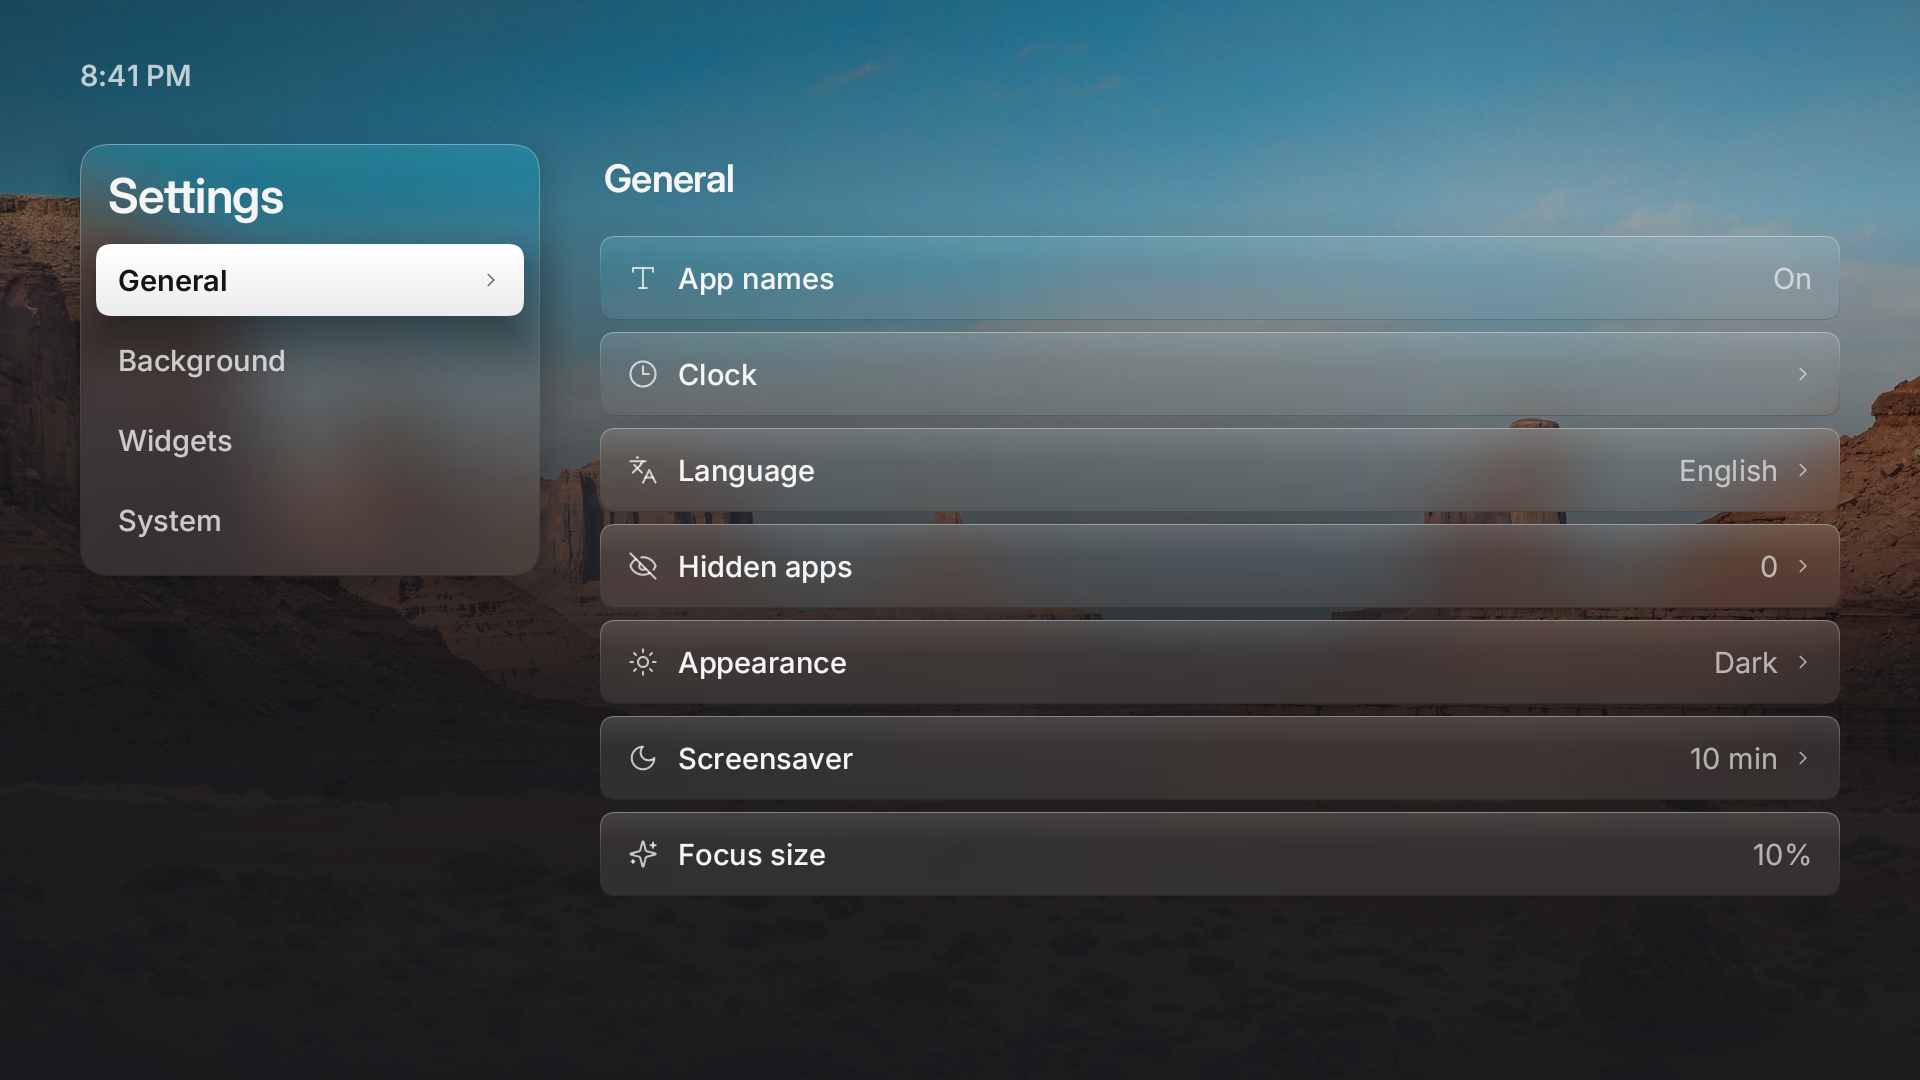
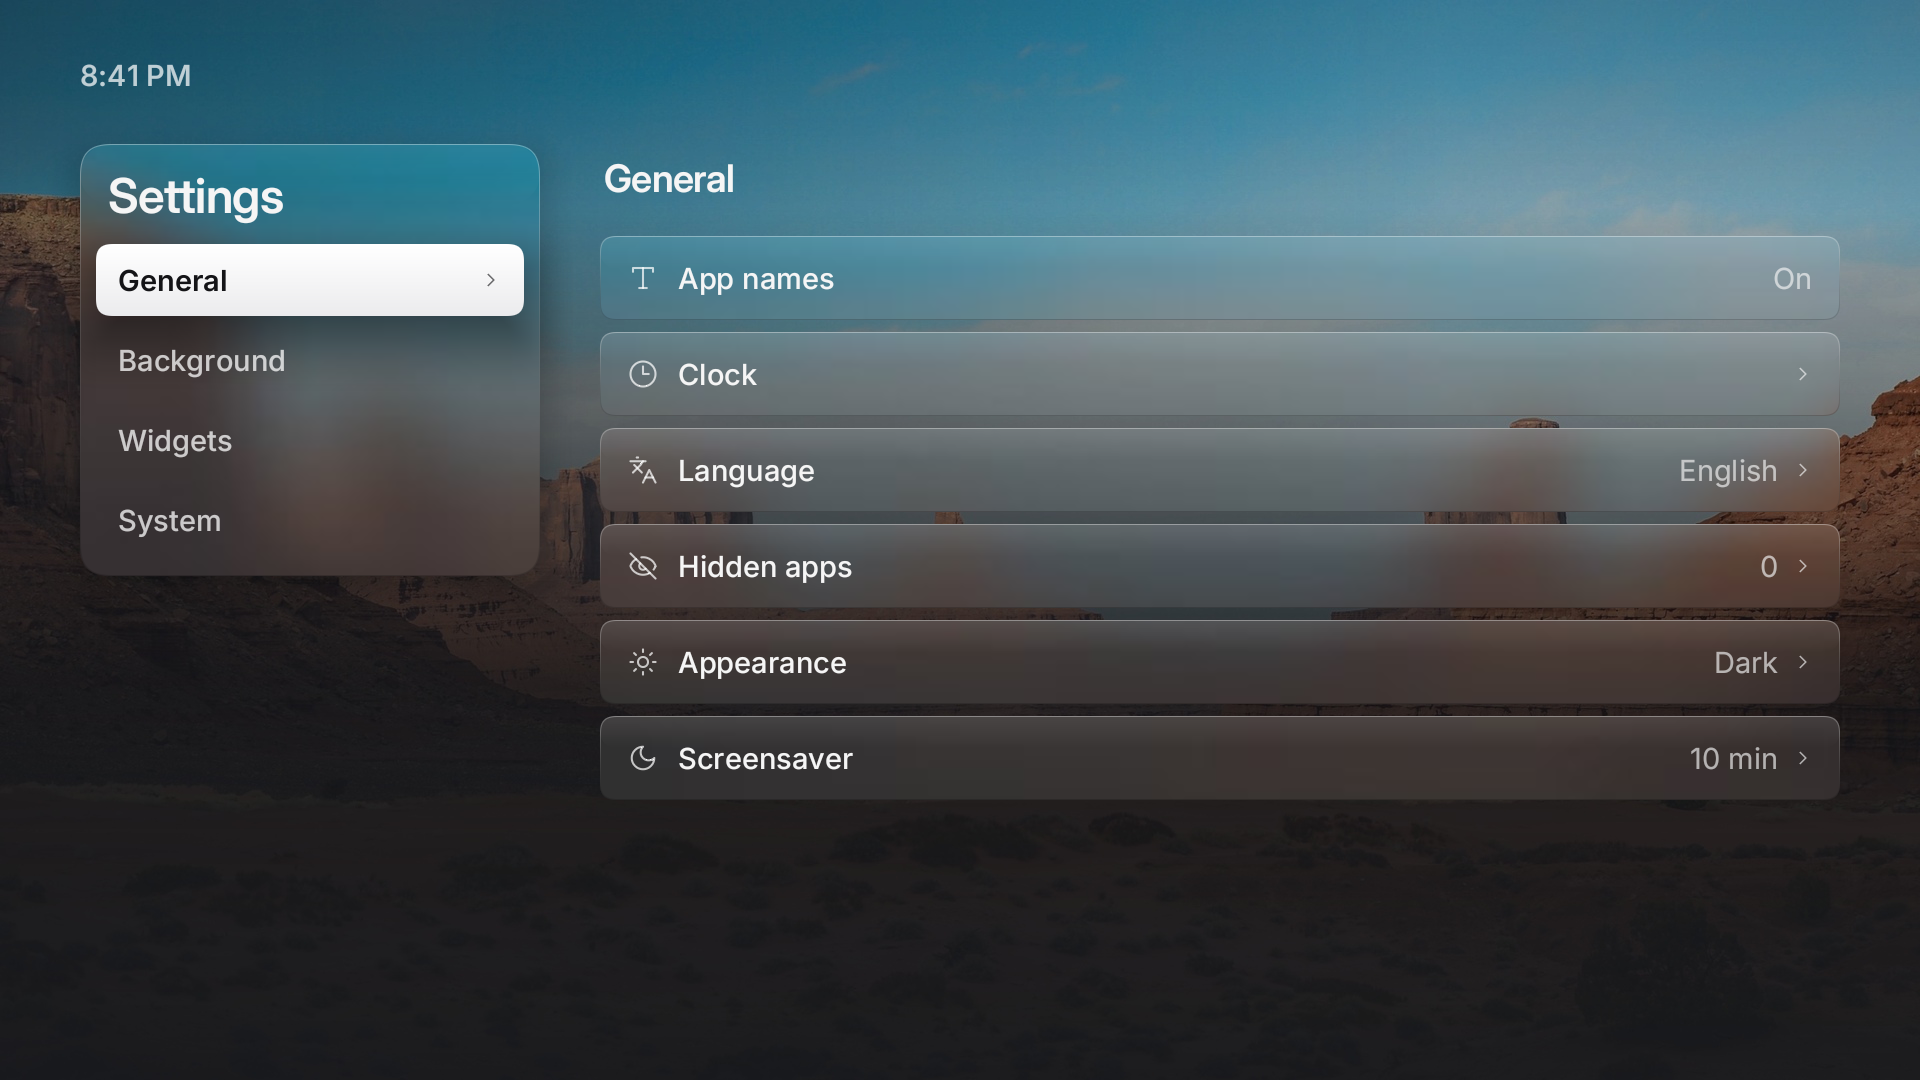
feat(ui): settle the focused card at a fixed 10% step
The user chose 10% on the TV. The temporary Focus size row and the
focus_grow preference are removed; preference files from the focus trials
(focus_style, focus_grow) still load. The single rimless style stays: 10%
larger, about 6% brighter, with a soft shadow.

Changed region(s): [[0.3125, 0.7333, 0.9688, 0.825]]

diff --git a/src/tests.rs b/src/tests.rs
@@ -4052,14 +4052,13 @@ fn startup_diagnostics_are_written_as_json_next_to_the_preferences() {
 
 #[test]
 fn focused_card_pops_in_place_and_focus_moves_instantly() {
-    use crate::model::FocusGrow;
     use crate::renderer::Draw;
     use crate::state::Rect;
     let mut state = ready();
     state.open(Page::Home);
     state.sync_motion();
-    // One rimless style: 10% larger by default, a soft shadow and about 6% brighter.
-    assert_eq!(state.preferences.focus_grow, FocusGrow(10));
+    // One rimless style: 10% larger, a soft shadow and about 6% brighter.
+    assert_eq!(view::FOCUS_GROW, 0.10);
     let netflix = Target::App("netflix".into());
     assert_eq!(state.focus, netflix);
     let card = |state: &State, target: &Target| {
@@ -4070,7 +4069,7 @@ fn focused_card_pops_in_place_and_focus_moves_instantly() {
             .rect
     };
     let grown = |rect: Rect| {
-        let share = FocusGrow::default().share();
+        let share = view::FOCUS_GROW;
         let (dx, dy) = (rect.w * share / 2., rect.h * share / 2.);
         Rect::new(rect.x - dx, rect.y - dy, rect.w + 2. * dx, rect.h + 2. * dy)
     };
@@ -4666,12 +4665,11 @@ fn removed_settings_still_load_from_old_preference_files_and_their_rows_are_gone
             _ => None,
         })
         .collect();
-    assert_eq!(rows, [0, 1, 4, 11, 14, 12, 16]);
+    assert_eq!(rows, [0, 1, 4, 11, 14, 12]);
 }
 
 #[test]
-fn every_focus_size_keeps_the_card_and_caption_inside_the_margin_and_clear_of_neighbours() {
-    use crate::model::FocusGrow;
+fn the_focused_card_and_caption_stay_inside_the_margin_and_clear_of_neighbours() {
     use crate::renderer::Draw;
     use crate::state::Rect;
     let overlaps = |a: Rect, b: Rect| {
@@ -4680,10 +4678,10 @@ fn every_focus_size_keeps_the_card_and_caption_inside_the_margin_and_clear_of_ne
             && a.y < b.y + b.h - 0.01
             && b.y < a.y + a.h - 0.01
     };
-    for level in FocusGrow::LEVELS {
+    let level = 10;
+    {
         for light in [false, true] {
             let mut state = ready();
-            state.preferences.focus_grow = FocusGrow(level);
             if light {
                 state.preferences.appearance = crate::model::Appearance::Light;
             }
@@ -4696,7 +4694,7 @@ fn every_focus_size_keeps_the_card_and_caption_inside_the_margin_and_clear_of_ne
                 .take(3 * crate::state::APPS_COLUMNS)
                 .collect();
             assert_eq!(cards.len(), 18);
-            let share = FocusGrow(level).share();
+            let share = view::FOCUS_GROW;
             for card in &cards {
                 state.focus = card.target.clone();
                 state.sync_motion();
@@ -4769,54 +4767,36 @@ fn every_focus_size_keeps_the_card_and_caption_inside_the_margin_and_clear_of_ne
             }
         }
     }
-    // At 14% the 40 px gap between neighbours keeps a clear space on each side.
+    // At 10% the 40 px gap between neighbours keeps 27 px clear.
     let gap = view::CARD_PITCH - view::CARD_WIDTH;
-    assert!(gap - view::CARD_WIDTH * 0.14 / 2. > 20.);
-    // The shadow grows with the size: wider, lower and deeper at each level.
-    let shadows: Vec<_> = FocusGrow::LEVELS
-        .iter()
-        .map(|level| view::focus_shadow(FocusGrow(*level)))
-        .collect();
-    for pair in shadows.windows(2) {
-        assert!(pair[1].0 > pair[0].0 && pair[1].1 > pair[0].1 && pair[1].2 > pair[0].2);
-    }
+    assert!(gap - view::CARD_WIDTH * view::FOCUS_GROW / 2. > 26.);
 }
 
 #[test]
-fn the_temporary_focus_size_row_cycles_five_levels_and_old_preferences_still_load() {
-    use crate::model::FocusGrow;
+fn preference_files_from_the_focus_trials_still_load() {
+    // focus_style (the S1–S6 trial) and focus_grow (the size trial) are no longer settings.
+    for value in [
+        json!({"focus_style": "s3"}),
+        json!({"focus_grow": 14}),
+        json!({"focus_style": "c", "focus_grow": "x", "show_app_names": false}),
+    ] {
+        let loaded: Preferences = serde_json::from_value(value.clone()).unwrap();
+        let saved = serde_json::to_value(&loaded).unwrap();
+        assert!(
+            saved.get("focus_style").is_none() && saved.get("focus_grow").is_none(),
+            "{value}"
+        );
+    }
+    let loaded: Preferences =
+        serde_json::from_value(json!({"focus_grow": 6, "show_app_names": false})).unwrap();
+    assert!(!loaded.show_app_names, "the other settings are kept");
+    // The General list has no focus row any more.
     let mut state = ready();
     state.open(Page::Settings);
     state.section = 0;
-    state.focus = Target::Setting(16);
-    let mut seen = vec![state.preferences.focus_grow.0];
-    for _ in 0..5 {
-        assert_eq!(state.activate(), vec![Effect::Save]);
-        seen.push(state.preferences.focus_grow.0);
-    }
-    assert_eq!(seen, [10, 12, 14, 6, 8, 10]);
-    state.preferences.focus_grow = FocusGrow(14);
-    let frame = scene(&state);
     assert!(
-        frame
-            .draw
+        !controls(&state)
             .iter()
-            .any(|d| matches!(d, crate::renderer::Draw::Text(t, ..) if t == "14%"))
+            .any(|c| c.target == Target::Setting(16))
     );
-    // Stored as "focus_grow"; other values load as 10%, and the earlier focus_style key
-    // (from the style trial) is ignored without error.
-    let saved = serde_json::to_value(&state.preferences).unwrap();
-    assert_eq!(saved["focus_grow"], 14);
-    assert!(saved.get("focus_style").is_none());
-    let loaded: Preferences =
-        serde_json::from_value(json!({"focus_grow": 6, "focus_style": "s3"})).unwrap();
-    assert_eq!(loaded.focus_grow, FocusGrow(6));
-    for value in [json!(7), json!("10"), json!(-1), json!(null), json!(1e20)] {
-        let loaded: Preferences = serde_json::from_value(json!({"focus_grow": value})).unwrap();
-        assert_eq!(loaded.focus_grow, FocusGrow(10), "{value}");
-    }
-    for style in ["s1", "s6", "c"] {
-        let loaded: Preferences = serde_json::from_value(json!({"focus_style": style})).unwrap();
-        assert_eq!(loaded.focus_grow, FocusGrow(10));
-    }
 }

diff --git a/src/view.rs b/src/view.rs
@@ -1,7 +1,7 @@
 //! Screen geometry and styling mirror the web UI's 1920×1080 / 16px-rem layout.
 use crate::{
     i18n::Language,
-    model::{App, BACKGROUNDS, FocusGrow, Input, InputMode},
+    model::{App, BACKGROUNDS, Input, InputMode},
     renderer::{Color, Draw, TextStyle, WHITE},
     state::{
         APPS_COLUMNS, Control, KEYS, Overlay, Page, Rect, SYSTEM_SECTION, State, Subpage, Target,
@@ -239,8 +239,6 @@ pub struct Scene {
     raised: Vec<Draw>,
     /// Settings and overlays: focused controls appear at once in place (no lift), as cards do.
     static_focus: bool,
-    /// How much larger focused app and wallpaper cards are (Settings › General › Focus size).
-    focus: FocusGrow,
 }
 
 /// Grows `rect` around its centre by `share` of its size.
@@ -276,7 +274,6 @@ impl Scene {
             backdrop: None,
             raised: Vec::new(),
             static_focus: false,
-            focus: FocusGrow::default(),
         }
     }
     /// How much a focused control grows: `lift`, or nothing where focus is static (Settings).
@@ -678,7 +675,6 @@ pub fn scene(state: &State, assets: &Assets, now: OffsetDateTime) -> Scene {
         return screensaver(state, assets, now, seed, step);
     }
     let mut out = Scene::new();
-    out.focus = state.preferences.focus_grow;
     out.static_focus =
         state.page == Page::Settings || state.overlay.is_some() || state.recents_open();
     let shown = state.preferences.background.clone();
@@ -1172,30 +1168,29 @@ fn within_margin(card: Rect, grown: Rect) -> Rect {
 }
 
 /// The focused card's drawn rectangle: its static size step, kept inside the screen margin.
-fn focused_rect(focus: FocusGrow, rect: Rect) -> Rect {
-    within_margin(rect, grow(rect, focus.share()))
+fn focused_rect(rect: Rect) -> Rect {
+    within_margin(rect, grow(rect, FOCUS_GROW))
 }
 
 /// A card's shadow and drawn rectangle for its focus `level`: the small resting shadow, or
-/// the focus size step with a soft shadow that grows with it, so a larger step also looks more
-/// lifted. The hit region is never changed; nothing animates.
+/// the 10% size step with a soft, wide shadow that makes it look lifted. The hit region is
+/// never changed; nothing animates.
 fn focus_card(out: &mut Scene, rect: Rect, radius: f32, level: f32) -> Rect {
     if level <= 0. {
         out.resting_shadow(rect, radius);
         return rect;
     }
-    let drawn = focused_rect(out.focus, rect);
-    let (blur, y, alpha) = focus_shadow(out.focus);
+    let drawn = focused_rect(rect);
+    let (blur, y, alpha) = FOCUS_SHADOW;
     out.shadow(drawn, radius, blur, y, alpha);
     drawn
 }
 
-/// Blur, downward offset and opacity of the focused card's shadow: from soft and close at a
-/// 6% step to wide, low and deeper at 14%. Light appearance halves shadow opacity.
-pub fn focus_shadow(focus: FocusGrow) -> (f32, f32, f32) {
-    let t = ((focus.share() - 0.06) / 0.08).clamp(0., 1.);
-    (mix(32., 64., t), mix(12., 30., t), mix(0.32, 0.5, t))
-}
+/// How much larger the focused card is drawn, around its centre (chosen on the TV).
+pub const FOCUS_GROW: f32 = 0.10;
+/// Blur, downward offset and opacity of the focused card's shadow. Light appearance halves
+/// shadow opacity.
+pub const FOCUS_SHADOW: (f32, f32, f32) = (48., 21., 0.41);
 
 /// How much brighter the focused card is: a white overlay of a few percent.
 pub const FOCUS_OVERLAY: f32 = 0.06;
@@ -2753,7 +2748,6 @@ fn settings_content(out: &mut Scene, state: &State, assets: &Assets) {
         0 => {
             let hidden = state.hidden_apps().len().to_string();
             let screensaver = screensaver_label(language, state.preferences.screensaver_minutes);
-            let focus_size = format!("{}%", state.preferences.focus_grow.0);
             for (position, (index, key, icon, value, chevron)) in [
                 (
                     0,
@@ -2782,14 +2776,6 @@ fn settings_content(out: &mut Scene, state: &State, assets: &Assets) {
                     "weather-moon",
                     Some(screensaver.as_str()),
                     true,
-                ),
-                // Temporary: settling the focus size on the TV. OK cycles 6% to 14%.
-                (
-                    16,
-                    "focusGrow",
-                    "sparkles",
-                    Some(focus_size.as_str()),
-                    false,
                 ),
             ]
             .into_iter()
@@ -3581,7 +3567,7 @@ fn options(out: &mut Scene, state: &State, assets: &Assets, id: &str, anchor: Op
     };
     let panel = Rect::new(x, card.y.clamp(144., 1020. - height), width, height);
     // The selected card keeps its focused highlight and size step, in place.
-    let lifted = focused_rect(out.focus, card);
+    let lifted = focused_rect(card);
     let radius = CARD_RADIUS;
     if background {
         let path = state

diff --git a/src/model.rs b/src/model.rs
@@ -209,44 +209,6 @@ fn deserialize_appearance<'de, D: serde::Deserializer<'de>>(
     )
 }
 
-/// How much larger a focused app or wallpaper card is drawn, in percent. A temporary choice on
-/// the TV (Settings › General › Focus size); once settled, the row goes and the value stays.
-#[derive(Clone, Copy, Debug, PartialEq, Eq, Serialize)]
-#[serde(transparent)]
-pub struct FocusGrow(pub u32);
-
-impl FocusGrow {
-    pub const LEVELS: [u32; 5] = [6, 8, 10, 12, 14];
-
-    /// The size step as a share of the card (0.10 for 10%).
-    pub fn share(self) -> f32 {
-        self.0 as f32 / 100.
-    }
-
-    /// The next level; OK on the Settings row cycles through all five.
-    pub fn next(self) -> Self {
-        let index = Self::LEVELS.iter().position(|level| *level == self.0);
-        Self(Self::LEVELS[index.map_or(0, |index| (index + 1) % Self::LEVELS.len())])
-    }
-}
-
-impl Default for FocusGrow {
-    fn default() -> Self {
-        Self(10)
-    }
-}
-
-/// Values other than the five levels load as the default instead of failing the file.
-fn deserialize_focus_grow<'de, D: serde::Deserializer<'de>>(
-    deserializer: D,
-) -> Result<FocusGrow, D::Error> {
-    Ok(serde_json::Value::deserialize(deserializer)?
-        .as_u64()
-        .and_then(|value| u32::try_from(value).ok())
-        .filter(|value| FocusGrow::LEVELS.contains(value))
-        .map_or_else(FocusGrow::default, FocusGrow))
-}
-
 #[derive(Clone, Copy, Debug, Default, PartialEq, Eq, Deserialize, Serialize)]
 #[serde(rename_all = "snake_case")]
 pub enum DateFormat {
@@ -326,8 +288,6 @@ pub struct Preferences {
     pub screensaver_minutes: u32,
     #[serde(deserialize_with = "deserialize_appearance")]
     pub appearance: Appearance,
-    #[serde(deserialize_with = "deserialize_focus_grow")]
-    pub focus_grow: FocusGrow,
     /// The 24-hour choice as earlier versions saved it: written with every preference file, so
     /// only `true` is known to be deliberate. Read through `uses_24_hour`.
     pub hour_24: bool,
@@ -367,7 +327,6 @@ impl Default for Preferences {
             show_inputs: false,
             screensaver_minutes: 10,
             appearance: Appearance::Dark,
-            focus_grow: FocusGrow(10),
             hour_24: false,
             clock_24: None,
             show_seconds: false,

diff --git a/src/state.rs b/src/state.rs
@@ -2456,12 +2456,6 @@ impl State {
                         return vec![];
                     }
                     5 => return vec![Effect::Quit],
-                    // Temporary focus size choice: OK cycles 6% to 14% and applies at once.
-                    16 => {
-                        self.preferences.focus_grow = self.preferences.focus_grow.next();
-                        self.dirty = true;
-                        return vec![Effect::Save];
-                    }
                     _ => return vec![Effect::Reload],
                 }
             }

diff --git a/development.md b/development.md
@@ -469,18 +469,14 @@ Luma follows current Apple tvOS (tvOS 26/27, Liquid Glass) in look and motion, a
 - **Focus** is static on app and wallpaper cards, everywhere in Settings and in every overlay
   (the context menu, alerts, the keyboard, Recents): it changes in the
   first frame after the key, with no lift, spring, tilt or fade on the item itself. A focused
-  app or wallpaper card is drawn one static size step larger around its centre (preference
-  `focus_grow`, default 10%), about 6% brighter, with a soft shadow that grows with the step
-  (blur 32 → 64 px, offset 12 → 30 px, opacity 0.32 → 0.5 from 6% to 14%), so a larger step
-  also looks more lifted. There is no rim or outline, other cards are not dimmed, nothing
-  animates, hit regions never move, and the size does not change while a card is pressed. A
-  grown card that would cross the 64 px screen margin (the edge columns at 14%, the third row's
-  bottom edge) is shifted back inside it; at 14% a focused card still leaves more than 20 px of
-  the 40 px gap to its neighbours. Its title appears beneath it; resting cards keep the same
-  small resting shadow. Settings › General › Focus size is a **temporary** row: OK cycles 6%,
-  8%, 10%, 12% and 14% and applies at once, so the size can be settled on the TV; the row then
-  goes and the chosen value becomes the fixed size. The earlier `focus_style` key from the style
-  trial is ignored.
+  app or wallpaper card is drawn 10% larger around its centre (`view::FOCUS_GROW`, settled on
+  the TV), about 6% brighter, with a soft, wide shadow (blur 48 px, offset 21 px, opacity 0.41;
+  Light appearance halves shadow opacity) so it looks lifted. There is no rim or outline, other
+  cards are not dimmed, nothing animates, hit regions never move, and the size does not change
+  while a card is pressed. A grown card that would cross the 64 px screen margin (the third
+  row's bottom edge) is shifted back inside it, and it leaves 27 px of the 40 px gap to its
+  neighbours. Its title appears beneath it; resting cards keep the same small resting shadow.
+  The `focus_style` and `focus_grow` keys from the trials on the TV are ignored on load.
   In Settings the
   focused sidebar entry, row, choice, button or key turns opaque white with dark labels and its
   shadow at once, at its own rectangle (`Scene::lift` is 0 there and in overlays), and holding OK

diff --git a/.changeset/focus-styles.md b/.changeset/focus-styles.md
@@ -2,4 +2,4 @@
 'lg-luma': minor
 ---
 
-Focused app and wallpaper cards stand out without an outline: the card pops out by a static size step, slightly brighter, with a soft shadow that grows with the size. A temporary Settings › General › Focus size row cycles 6%, 8%, 10%, 12% and 14% (default 10%) to settle the size on the TV. Nothing animates and hit regions are unchanged.
+Focused app and wallpaper cards stand out without an outline: the card pops out 10% larger, slightly brighter, with a soft shadow. Nothing animates and hit regions are unchanged.
